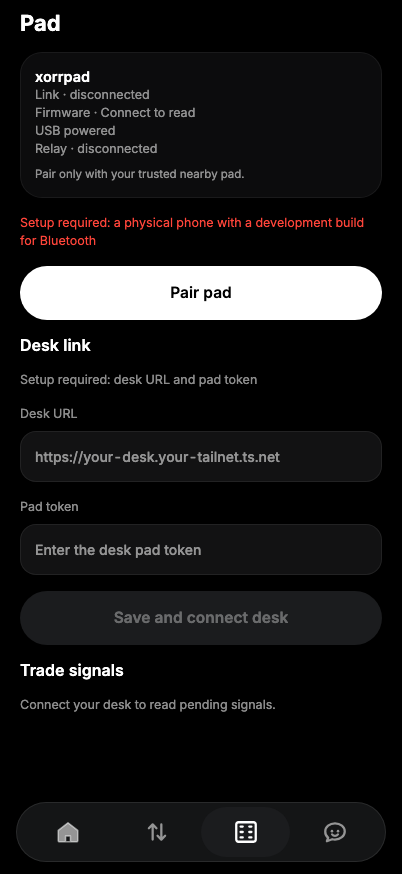
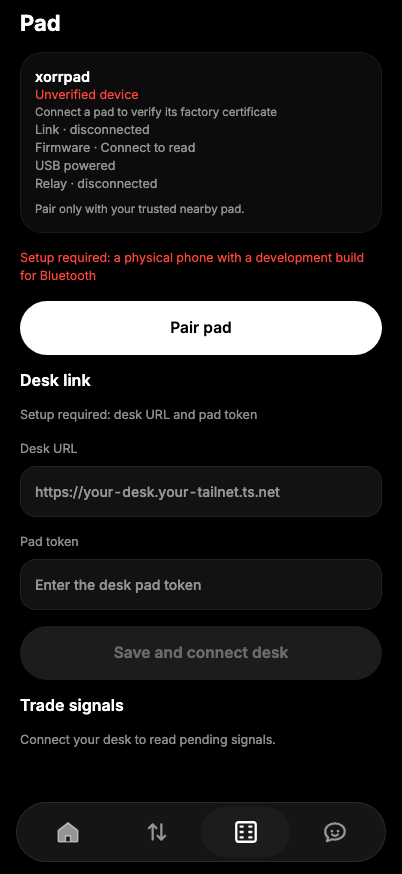
Verify xorrpad factory attestation in the existing Pad screen
Verify a fresh BLE-only phone challenge with a pinned factory chain, reset trust across connections, and relay v2 envelopes without trusting desk verdicts. Preserve the existing Pad design.

Changed region(s): [[0.0299, 0.0927, 0.9552, 0.865], [0.6567, 0.4943, 0.6866, 0.5252]]

diff --git a/src/pad/attestation.test.ts b/src/pad/attestation.test.ts
@@ -1,0 +1,29 @@
+import { describe, expect, it } from 'vitest';
+import { generateKeyPairSync, randomBytes, sign } from 'node:crypto';
+import { PhoneAttestation, attestationText, certificateText, verifyAttestation, type Certificate, type AttestationHello, type ExpectedAttestation } from './attestation';
+import { PadFramer, encodeRecord } from './protocol';
+function unit() {
+  const factory=generateKeyPairSync('ed25519'),device=generateKeyPairSync('ed25519');
+  const pub=(key:typeof factory.publicKey)=>key.export({type:'spki',format:'der'}).subarray(-32).toString('hex');
+  const hello:AttestationHello={device:'esp32-123456abcdef',pk:pub(device.publicKey),xpk:randomBytes(32).toString('hex'),nonce:randomBytes(32).toString('hex')};
+  const certificate:Certificate={v:1,deviceKey:hello.pk,serial:hello.device,model:'xorrpad-esp32s3',signature:'0'.repeat(128)};
+  certificate.signature=sign(null,Buffer.from(certificateText(certificate)),factory.privateKey).toString('hex');
+  const context=`xorrpad-v2|${hello.device}|${hello.xpk}|${randomBytes(32).toString('hex')}|${randomBytes(32).toString('hex')}|${hello.nonce}`;
+  const expected:ExpectedAttestation={device:hello.device,deviceKey:hello.pk,context};
+  const proofFor=(context:string)=>({v:2 as const,type:'attest_response',certificate,signature:sign(null,Buffer.from(attestationText(certificate,context)),device.privateKey).toString('hex')});
+  return {hello,certificate,expected,proof:proofFor(context),proofFor,roots:[pub(factory.publicKey)]};
+}
+describe('independent phone factory verification',()=>{
+  it('verifies a real Ed25519 factory certificate and device challenge',()=>{const u=unit();expect(verifyAttestation(u.proof,u.expected,u.roots)).toMatchObject({verified:true,label:`Genuine xorrpad #${u.hello.device}`});});
+  it('never trusts a desk verdict, a self-asserted key or an unprovisioned release root',()=>{const u=unit();expect(verifyAttestation({verified:true,label:'Genuine'},u.expected,u.roots).verified).toBe(false);expect(verifyAttestation(u.proof,u.expected).verified).toBe(false);expect(verifyAttestation(u.proof,u.expected,unit().roots).verified).toBe(false);});
+  it.each(['serial','model','deviceKey','signature','v'] as const)('rejects changed certificate %s',field=>{const u=unit();const certificate={...u.certificate,[field]:field==='v'?2:field==='serial'?'esp32-000000000000':field==='model'?'clone':'0'.repeat(field==='signature'?128:64)};expect(verifyAttestation({...u.proof,certificate},u.expected,u.roots).verified).toBe(false);});
+  it('rejects non-canonical certificate schema and encodings',()=>{const u=unit();for(const certificate of [{...u.certificate,extra:true},{...u.certificate,v:'1'},{...u.certificate,deviceKey:u.hello.pk.toUpperCase()},{...u.certificate,signature:'f'.repeat(130)},null])expect(verifyAttestation({...u.proof,certificate},u.expected,u.roots).verified).toBe(false);});
+  it.each([2,3,4,5])('rejects replay against changed context field %s',index=>{const u=unit(),parts=u.expected.context.split('|');parts[index]=randomBytes(32).toString('hex');expect(verifyAttestation(u.proof,{...u.expected,context:parts.join('|')},u.roots).verified).toBe(false);});
+  it('rejects substituted BLE serial and identity key',()=>{const u=unit();expect(verifyAttestation(u.proof,{...u.expected,device:'esp32-000000000000'},u.roots).verified).toBe(false);expect(verifyAttestation(u.proof,{...u.expected,deviceKey:unit().hello.pk},u.roots).verified).toBe(false);});
+  it('accepts only a fresh locally generated phone challenge once',()=>{const u=unit(),controller=new PhoneAttestation(()=>randomBytes(32),u.roots);const request=controller.begin(u.hello)!;expect(request.challenge).toHaveLength(64);expect(controller.begin(u.hello)).toBeUndefined();const context=`xorrpad-v2|${u.hello.device}|${u.hello.xpk}|${request.clientKey}|${request.challenge}|${request.nonce}`;const proof=u.proofFor(context);expect(controller.finish(proof).verified).toBe(true);expect(controller.finish(proof).verified).toBe(false);});
+  it('disconnect and reconnect discard genuine state and old challenge proofs',()=>{const u=unit(),controller=new PhoneAttestation(()=>randomBytes(32),u.roots);const a=controller.begin(u.hello)!;const proof=u.proofFor(`xorrpad-v2|${u.hello.device}|${u.hello.xpk}|${a.clientKey}|${a.challenge}|${a.nonce}`);expect(controller.finish(proof).verified).toBe(true);controller.reset();expect(controller.state.verified).toBe(false);const b=controller.begin(u.hello)!;expect(b.challenge).not.toBe(a.challenge);expect(controller.finish(proof).verified).toBe(false);});
+  it('expires a late proof without restoring verified status',()=>{const u=unit();let now=0;const controller=new PhoneAttestation(()=>randomBytes(32),u.roots,()=>now);const a=controller.begin(u.hello)!;now=10000;expect(controller.expire().verified).toBe(false);expect(controller.finish(u.proofFor(`xorrpad-v2|${u.hello.device}|${u.hello.xpk}|${a.clientKey}|${a.challenge}|${a.nonce}`)).verified).toBe(false);});
+  it('fails closed when secure randomness or hello fields are unavailable',()=>{const u=unit();const controller=new PhoneAttestation(()=>{throw Error('unavailable');},u.roots);expect(controller.begin(u.hello)).toBeUndefined();expect(controller.state.verified).toBe(false);expect(new PhoneAttestation(()=>randomBytes(32)).begin({...u.hello,nonce:'bad'})).toBeUndefined();});
+  it('frames fragmented v3 hello and proof without rewriting relay bytes',()=>{const u=unit();const bytes=encodeRecord({v:2,type:'hello',...u.hello,fw:'3.0.0'});for(let split=1;split<bytes.length;split++){const parser=new PadFramer();expect(parser.feed(bytes.slice(0,split))).toEqual([]);expect(Buffer.from(parser.feed(bytes.slice(split))[0]!.bytes).equals(Buffer.from(bytes))).toBe(true);}expect(new PadFramer().feed(encodeRecord(u.proof))[0]!.record.type).toBe('attest_response');});
+  it('permits encrypted v2 relay and rejects plaintext trade downgrade frames',()=>{expect(new PadFramer().feed(encodeRecord({v:2,type:'encrypted',seq:1,ack:0,body:'AA==',tag:'0'.repeat(32)}))).toHaveLength(1);for(const line of ['{"v":2,"type":"key","action":"yes"}\n','{"v":2,"type":"encrypted","seq":0,"ack":0,"body":"AA==","tag":"'+ '0'.repeat(32)+'"}\n'])expect(()=>new PadFramer().feed(Buffer.from(line))).toThrow();});
+});

diff --git a/src/pad/attestation.ts b/src/pad/attestation.ts
@@ -1,0 +1,64 @@
+import { ed25519 } from '@noble/curves/ed25519';
+import { FACTORY_ROOTS } from './attestationRoots';
+
+export type Certificate = { v: 1; deviceKey: string; serial: string; model: 'xorrpad-esp32s3'; signature: string };
+export type AttestationState = { verified: boolean; label: string; reason: string; serial?: string };
+export type AttestationHello = { device: string; pk: string; xpk: string; nonce: string };
+export type AttestationRequest = { v: 2; type: 'attest_request'; clientKey: string; challenge: string; nonce: string };
+export type ExpectedAttestation = { device: string; deviceKey: string; context: string };
+const isObject = (v: unknown): v is Record<string, unknown> => !!v && typeof v === 'object' && !Array.isArray(v);
+const hex = (s: unknown, n: number): s is string => typeof s === 'string' && new RegExp(`^[0-9a-f]{${n * 2}}$`).test(s);
+const bytes = (s: string) => Uint8Array.from(s.match(/../g)!, x => parseInt(x, 16));
+const utf8 = (s: string) => Uint8Array.from(s, c => c.charCodeAt(0)); // Contract is strictly ASCII.
+export const unverified = (reason = 'Connect a pad to verify its factory certificate'): AttestationState => ({ verified: false, label: 'Unverified device', reason });
+export function certificateText(value: unknown): string {
+  if (!isObject(value) || Object.keys(value).sort().join(',') !== 'deviceKey,model,serial,signature,v' ||
+      value.v !== 1 || value.model !== 'xorrpad-esp32s3' || typeof value.serial !== 'string' ||
+      !/^esp32-[0-9a-f]{12}$/.test(value.serial) || !hex(value.deviceKey, 32) || !hex(value.signature, 64)) throw Error('Invalid device certificate');
+  return `xorrpad-cert-v3\n1\n${value.deviceKey}\n${value.serial}\n${value.model}`;
+}
+export function attestationText(c: unknown, context: string): string {
+  const cert = certificateText(c), certificate = c as Certificate;
+  const parts = typeof context === 'string' ? context.split('|') : [];
+  if (parts.length !== 6 || parts[0] !== 'xorrpad-v2' || parts[1] !== certificate.serial || !parts.slice(2).every(x => hex(x, 32))) throw Error('Invalid attestation challenge');
+  return `xorrpad-attest-v3\n${cert}\n${certificate.signature}\n${context}`;
+}
+export function verifyAttestation(proof: unknown, expected: ExpectedAttestation, roots: readonly string[] = FACTORY_ROOTS): AttestationState {
+  try {
+    if (!isObject(proof)) throw Error('Device certificate or challenge proof missing');
+    const text = attestationText(proof.certificate, expected.context), c = proof.certificate as Certificate;
+    if (c.serial !== expected.device || c.deviceKey !== expected.deviceKey || !hex(proof.signature, 64)) throw Error('Device certificate does not match this connection');
+    const trusted = roots.some(root => hex(root, 32) && ed25519.verify(bytes(c.signature), utf8(certificateText(c)), bytes(root), { zip215: false }));
+    if (!trusted) throw Error(roots.length ? 'Factory certificate verification failed' : 'Setup required: trusted factory public key');
+    if (!ed25519.verify(bytes(proof.signature), utf8(text), bytes(expected.deviceKey), { zip215: false })) throw Error('Device challenge verification failed');
+    return { verified: true, label: `Genuine xorrpad #${c.serial}`, serial: c.serial, reason: 'Factory certificate and fresh phone challenge verified' };
+  } catch (error) { return unverified(error instanceof Error ? error.message : 'Attestation verification failed'); }
+}
+/** One proof per fresh phone challenge, bound to the current BLE hello. No desk-supplied verdicts. */
+export class PhoneAttestation {
+  state = unverified();
+  private hello?: string;
+  private pending?: { expected: ExpectedAttestation; deadline: number };
+  constructor(private random: () => Uint8Array, private roots: readonly string[] = FACTORY_ROOTS, private now: () => number = Date.now) {}
+  reset(reason?: string) { this.hello = undefined; this.pending = undefined; return this.state = unverified(reason); }
+  begin(hello: AttestationHello): AttestationRequest | undefined {
+    if (!/^esp32-[0-9a-f]{12}$/.test(hello.device) || ![hello.pk, hello.xpk, hello.nonce].every(v => hex(v, 32))) { this.reset('Invalid pad identity'); return; }
+    const identity = `${hello.device}|${hello.pk}|${hello.xpk}|${hello.nonce}`;
+    if (this.hello === identity) return;
+    this.reset();
+    const randomHex = () => { const b = this.random(); if (b.length !== 32) throw Error('Secure random challenge unavailable'); return Array.from(b, x => x.toString(16).padStart(2, '0')).join(''); };
+    try {
+      const clientKey = randomHex(), challenge = randomHex();
+      this.hello = identity;
+      this.pending = { expected: { device: hello.device, deviceKey: hello.pk, context: `xorrpad-v2|${hello.device}|${hello.xpk}|${clientKey}|${challenge}|${hello.nonce}` }, deadline: this.now() + 10000 };
+      this.state = unverified('Checking factory certificate and fresh phone challenge');
+      return { v: 2, type: 'attest_request', clientKey, challenge, nonce: hello.nonce };
+    } catch { this.reset('Setup required: secure random challenge'); }
+  }
+  finish(proof: unknown): AttestationState {
+    const pending = this.pending; this.pending = undefined;
+    if (!pending || this.now() >= pending.deadline) return this.state = unverified('Device challenge missing, expired or already consumed');
+    return this.state = verifyAttestation(proof, pending.expected, this.roots);
+  }
+  expire() { if (this.pending && this.now() >= this.pending.deadline) { this.pending = undefined; this.state = unverified('No fresh device proof; reconnect the pad'); } return this.state; }
+}

diff --git a/src/pad/runtime.ts b/src/pad/runtime.ts
@@ -1,4 +1,7 @@
 import { create } from 'zustand';
+import { getRandomBytes } from 'expo-crypto';
+import { PhoneAttestation, unverified, type AttestationHello, type AttestationState } from './attestation';
+import { encodeRecord } from './protocol';
 import { PadDesk } from '../data/padDesk';
 import { signPadRequest } from '../wallet/padRequest';
 import { PadBle, type BleState } from './ble';
@@ -8,19 +11,32 @@ import { noticeFor } from './notificationModel';
 import { postPadNotice, preparePadNotifications } from './notifications';
 import { PadRelay } from './relay';
 
-type State = { link: BleState; desk: string; relay: string; url: string; queue: SignalState; busy?: string; error?: string };
-export const usePadState = create<State>(() => ({ link: { state: 'disconnected' }, desk: 'disconnected', relay: 'disconnected', url: '', queue: emptySignals() }));
+type State = { attestation: AttestationState; link: BleState; desk: string; relay: string; url: string; queue: SignalState; busy?: string; error?: string };
+export const usePadState = create<State>(() => ({ attestation: unverified(), link: { state: 'disconnected' }, desk: 'disconnected', relay: 'disconnected', url: '', queue: emptySignals() }));
 
 class PadRuntime {
   private desk?: PadDesk;
+  private attestor = new PhoneAttestation(() => getRandomBytes(32));
+  private attestTimer?: ReturnType<typeof setTimeout>;
   private generation = 0;
   private running = false;
   private noticed = new Set<string>();
   private relay = new PadRelay(bytes => this.ble.write(bytes), relay => usePadState.setState({ relay }));
   private ble = new PadBle({ state: link => {
+    const previous = usePadState.getState().link;
+    if(link.state !== 'connected' || previous.state !== 'connected'){clearTimeout(this.attestTimer);usePadState.setState({attestation:this.attestor.reset()});}
     usePadState.setState({ link });
     if (link.state !== 'connected') this.relay.close();
-  }, record: (record, bytes) => this.relay.fromPad(this.desk, record, bytes) });
+  }, record: (record, bytes) => {
+    if(record.v===2 && record.type==='attest_response'){clearTimeout(this.attestTimer);usePadState.setState({attestation:this.attestor.finish(record)});return;}
+    if(record.type==='hello'){
+      if(record.v===2){
+        const request=this.attestor.begin(record as unknown as AttestationHello);usePadState.setState({attestation:this.attestor.state});
+        if(request){this.attestTimer=setTimeout(()=>usePadState.setState({attestation:this.attestor.expire()}),10010);void this.ble.write(encodeRecord(request)).catch(()=>usePadState.setState({attestation:this.attestor.reset('Setup required: reconnect the pad to verify')}));}
+      }else usePadState.setState({attestation:this.attestor.reset('Legacy firmware has no factory attestation')});
+    }
+    this.relay.fromPad(this.desk, record, bytes);
+  } });
   private event = (event: unknown) => {
     usePadState.setState(s => ({ queue: reduceSignals(s.queue, event) }));
     for (const signal of Object.values(usePadState.getState().queue.signals)) {
@@ -73,7 +89,7 @@ class PadRuntime {
     try { await clearSettings(); } catch { this.error(new Error('Setup required: unlock SecureStore to forget the desk')); }
   }
   pair = () => this.ble.pair();
-  disconnect = () => this.ble.stop();
+  disconnect = () => {clearTimeout(this.attestTimer);usePadState.setState({attestation:this.attestor.reset()});return this.ble.stop();};
   async answer(id: string, action: 'accept' | 'refuse', refreshed = false) {
     const current = usePadState.getState();
     const signal = current.queue.signals[id];
@@ -109,6 +125,6 @@ class PadRuntime {
     if (value.receipt) this.event({ type: 'receipt', receipt: value.receipt });
   }
   private error(error: unknown) { usePadState.setState({ error: error instanceof Error ? error.message : 'Setup required: reconnect the desk' }); }
-  stop() { this.running = false; this.generation++; this.relay.close(); this.desk?.close(); this.desk = undefined; void this.ble.stop(); }
+  stop() { clearTimeout(this.attestTimer);usePadState.setState({attestation:this.attestor.reset()});this.running = false; this.generation++; this.relay.close(); this.desk?.close(); this.desk = undefined; void this.ble.stop(); }
 }
 export const padRuntime = new PadRuntime();

diff --git a/src/pad/attestation.integration.test.ts b/src/pad/attestation.integration.test.ts
@@ -1,0 +1,27 @@
+/** Cross-check public certificates/proofs with the actual firmware native verifier. */
+import { describe, expect, it } from 'vitest';
+import { generateKeyPairSync, randomBytes, sign } from 'node:crypto';
+import { existsSync } from 'node:fs';
+import path from 'node:path';
+import { spawnSync } from 'node:child_process';
+import { PhoneAttestation, attestationText, certificateText, verifyAttestation, type Certificate } from './attestation';
+const driver=path.resolve(import.meta.dirname,'../../../xorrpad-fw2/firmware/build/attestation-driver');
+describe.skipIf(!existsSync(driver))('phone and production native attestation parity (run firmware/test/run.sh first)',()=>{
+  it.each(['genuine','foreign-root','changed-challenge','changed-device'] as const)('agrees for %s',mode=>{
+    const factory=generateKeyPairSync('ed25519'),device=generateKeyPairSync('ed25519');
+    const pub=(key:typeof factory.publicKey)=>key.export({type:'spki',format:'der'}).subarray(-32).toString('hex');
+    const hello={device:'esp32-123456abcdef',pk:pub(device.publicKey),xpk:randomBytes(32).toString('hex'),nonce:randomBytes(32).toString('hex')};
+    const c:Certificate={v:1,deviceKey:hello.pk,serial:hello.device,model:'xorrpad-esp32s3',signature:'0'.repeat(128)};
+    c.signature=sign(null,Buffer.from(certificateText(c)),factory.privateKey).toString('hex');
+    const controller=new PhoneAttestation(()=>randomBytes(32),[pub(factory.publicKey)]),request=controller.begin(hello)!;
+    const expected={device:hello.device,deviceKey:hello.pk,context:`xorrpad-v2|${hello.device}|${hello.xpk}|${request.clientKey}|${request.challenge}|${request.nonce}`};
+    const proof={certificate:c,signature:sign(null,Buffer.from(attestationText(c,expected.context)),device.privateKey).toString('hex')};
+    let root=pub(factory.publicKey);
+    if(mode==='foreign-root')root=pub(generateKeyPairSync('ed25519').publicKey);
+    if(mode==='changed-challenge')expected.context=expected.context.replace(request.challenge,randomBytes(32).toString('hex'));
+    if(mode==='changed-device')expected.device='esp32-000000000000';
+    const result=spawnSync(driver,[],{input:JSON.stringify({...proof,...expected,root})+'\n',encoding:'utf8'});
+    expect(result.status).toBe(0);expect(result.stdout.trim()).toBe(mode==='genuine'?'verified':'unverified');
+    expect(verifyAttestation(proof,expected,[root]).verified).toBe(mode==='genuine');
+  });
+});

diff --git a/src/pad/protocol.ts b/src/pad/protocol.ts
@@ -4,7 +4,7 @@ export const SERVICE = '6E400001-B5A3-F393-E0A9-E50E24DCCA9E';
 export const RX = '6E400002-B5A3-F393-E0A9-E50E24DCCA9E';
 export const TX = '6E400003-B5A3-F393-E0A9-E50E24DCCA9E';
 export const MAX_LINE = 4096;
-export type PadRecord = { v: 1; type: string; [field: string]: unknown };
+export type PadRecord = { v: 1 | 2; type: string; [field: string]: unknown };
 const text = (v: unknown) => typeof v === 'string' && v.length > 0;
 const finite = (v: unknown) => typeof v === 'number' && Number.isFinite(v);
 const integer = (v: unknown) => finite(v) && Number.isInteger(v) && Number(v) >= 0;
@@ -14,6 +14,20 @@ const bool = (v: unknown) => typeof v === 'boolean';
 export function validateRecord(value: unknown): PadRecord {
   if (!value || typeof value !== 'object' || Array.isArray(value)) throw new Error('Invalid pad record');
   const m = value as PadRecord;
+  const h = (s: unknown, n = 32) => typeof s === 'string' && new RegExp(`^[0-9a-f]{${n*2}}$`).test(s);
+  if(m.v === 2) {
+    let valid = false;
+    switch(m.type) {
+      case 'hello': valid = typeof m.device === 'string' && /^[\w-]{1,64}$/.test(m.device) && typeof m.fw === 'string' && /^[23]\.\d+\.\d+$/.test(m.fw) && h(m.pk) && h(m.xpk) && h(m.nonce); break;
+      case 'pair': valid = h(m.deskpk) && h(m.challenge) && h(m.nonce); break;
+      case 'pair_proof': valid = h(m.signature,64); break;
+      case 'attest_request': valid = h(m.clientKey) && h(m.challenge) && h(m.nonce); break;
+      case 'attest_response': valid = m.certificate === undefined || (!!m.certificate && typeof m.certificate === 'object'); break;
+      case 'encrypted': valid = integer(m.seq) && Number(m.seq)>0 && Number(m.seq)<=0xffffffff && integer(m.ack) && Number(m.ack)<=0xffffffff && typeof m.body === 'string' && /^(?:[A-Za-z0-9+/]{4})*(?:[A-Za-z0-9+/]{2}==|[A-Za-z0-9+/]{3}=)?$/.test(m.body) && h(m.tag,16); break;
+    }
+    if (!valid) throw new Error('Unsupported or malformed pad v2 record');
+    return m;
+  }
   const valid = m.v === 1 && (() => {
     switch (m.type) {
       case 'hello': return text(m.device) && m.fw === '1.0.0' && Array.isArray(m.caps) && m.caps.every(text);

diff --git a/src/pad/relay.ts b/src/pad/relay.ts
@@ -12,6 +12,7 @@ export class PadRelay {
   private heartbeat?: ReturnType<typeof setInterval>;
   constructor(private writeBle: (bytes: Uint8Array) => Promise<void>, private state: (state: string) => void) {}
   fromPad(desk: RelayDesk | undefined, record: PadRecord, bytes: Uint8Array) {
+    if(record.type==='attest_request'||record.type==='attest_response')return;
     if (!desk) { this.close(); this.state('Setup required: connect the desk to relay'); return; }
     if (this.desk !== desk || (record.type === 'hello' && this.device !== record.device)) this.close();
     if (!this.socket) {
@@ -30,11 +31,12 @@ export class PadRelay {
         try {
           if (typeof data !== 'string' || Buffer.byteLength(data, 'utf8') > 65536) throw new Error();
           for (const line of this.framer.feed(Buffer.from(data, 'utf8'))) {
+            if(line.record.type==='attest_request'||line.record.type==='attest_response')throw new Error('Phone attestation is BLE-only');
             this.lastResponse = Date.now();
             this.state('connected');
             void this.writeBle(line.bytes).catch(() => this.fail('Setup required: reconnect the pad to relay'));
           }
-        } catch { this.fail('Setup required: compatible v1 desk relay'); }
+        } catch { this.fail('Setup required: compatible desk relay'); }
       };
       ws.onerror = () => { if (this.socket === ws) this.fail('Setup required: reachable desk /padlink WebSocket'); };
       ws.onclose = () => { if (this.socket === ws) this.fail('Setup required: relay disconnected; waiting for pad hello'); };

diff --git a/app/(tabs)/pad.tsx b/app/(tabs)/pad.tsx
@@ -21,6 +21,8 @@ export default function Pad() {
     <ScrollView showsVerticalScrollIndicator={false} contentContainerStyle={{ gap: space.s16, paddingTop: space.s16, paddingBottom: space.s30 }}>
       <SheetCard bordered borderRadius={radius.panel} padding={space.s14}>
         <Text variant="rowPrimary">xorrpad</Text>
+        <Text variant="secondary" color={pad.attestation.verified ? colors.up : colors.down} accessibilityLiveRegion="polite">{pad.attestation.label}</Text>
+        <Text variant="secondarySm" color={colors.ink55}>{pad.attestation.reason}</Text>
         <Text variant="secondary" color={colors.ink55}>Link · {pad.link.state}</Text>
         <Text variant="secondary" color={colors.ink55}>Firmware · {pad.link.firmware ?? 'Connect to read'}</Text>
         <Text variant="secondary" color={colors.ink55}>USB powered</Text>

diff --git a/src/pad/attestationRoots.ts b/src/pad/attestationRoots.ts
@@ -1,0 +1,3 @@
+// Public release trust anchors only. Empty until reviewed factory provisioning.
+// Never trust keys supplied by BLE, a desk response, a QR, or user settings.
+export const FACTORY_ROOTS: readonly string[] = Object.freeze([]);

diff --git a/docs/pad/README.md b/docs/pad/README.md
@@ -140,3 +140,43 @@ temporary entry, and stops its own Metro process by PID. Screenshots:
   resolution failure before Metro was rebuilt. The rebuilt full app still needs
   Privy configuration, so the component captures above verify the UI extension;
   they do not claim a signed-in full-app or hardware test.
+
+## Firmware v3 device attestation
+
+The existing Pad card now shows **Genuine xorrpad #serial** only after the phone
+itself verifies both signatures: a factory-signed device certificate and that
+device's signature over a fresh phone challenge. All other states show red
+**Unverified device**, including legacy firmware, missing certificates, failed
+proofs, timeouts and disconnects. The card uses the existing app typography,
+spacing and color tokens; the Pad screen has not been restyled.
+
+The phone generates 32-byte challenges through Expo Crypto. The BLE-only
+`attest_request` contains `clientKey`, `challenge` and the current pad hello's
+`nonce`. The pad binds its actual serial/X25519 public key and that nonce into
+the same six-field attestation transcript used by the desk. The phone consumes
+one proof within 10 seconds, and resets its state at every BLE connection change.
+Neither challenge requests nor responses cross the desk relay; a desk-provided
+“verified” boolean is never accepted. The relay now also forwards bounded v2
+pairing/encrypted envelopes while preserving v1 compatibility and original bytes.
+
+`src/pad/attestationRoots.ts` contains reviewed **public** release trust anchors.
+It intentionally ships empty, matching the firmware/desk trust stores: no test
+key or user-supplied key makes a device genuine. Manufacturing must pin the same
+factory public root in all three releases and provision the signed certificate
+on the device. No production root or private key was generated, opened or
+installed for this implementation. No changes enable secure boot or flash
+fuses. Identity attestation proves possession of a certified key; it does not
+measure firmware or defeat copied software-held keys.
+
+Ed25519 runs locally with pinned `@noble/curves` 1.9.1 in strict RFC8032 mode,
+including Hermes where Ed25519 WebCrypto may be unavailable. Test signing keys
+are generated only in process RAM. `EXPO_NO_DOTENV=1 npm run test:pad -- --exclude
+'**/*.live.test.ts'` verifies the new proof/replay/schema/framing paths and all
+existing Pad tests without opening `.env`. Cross-repository tests also compare
+against `xorrpad-fw2/firmware/build/attestation-driver` when built; otherwise those
+four checks are explicitly skipped. Run the firmware native suite first.
+
+Physical BLE, OS passkey prompts, factory NVS persistence and a genuinely
+provisioned phone/device connection still require hardware. The firmware remains
+**compiled, not yet flashed**. No new transaction is signed or broadcast by the
+phone attestation tests.
